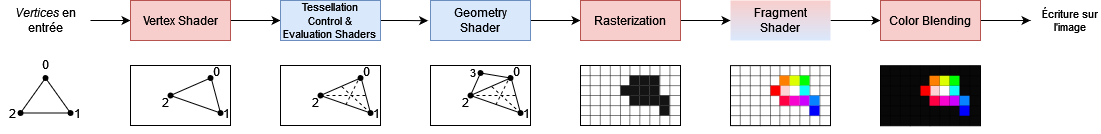
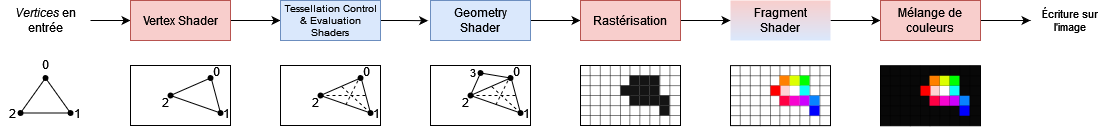
"La" vers "Le" pipeline graphique

diff --git a/partie1/6/1.md b/partie1/6/1.md
@@ -1,9 +1,9 @@
 # Tutoriel pour bien débuter à Vulkan
-## 1.6.1 - La pipeline graphique - Écriture et compilation des shaders
+## 1.6.1 - Le pipeline graphique - Écriture et compilation des shaders
 
-La pipeline graphique a plusieurs étapes où des *shaders* sont utilisés, le *Vertex shader*, le *Tessellation Control shader*, le *Tessellation Evaluation shader*, le *Geometry shader* et le *Fragment shader*.
+Le pipeline graphique a plusieurs étapes où des *shaders* sont utilisés, le *Vertex shader*, le *Tessellation Control shader*, le *Tessellation Evaluation shader*, le *Geometry shader* et le *Fragment shader*.
 
-Le *Tessellation Control shader*, le *Tessellation Evaluation shader* et le *Geometry shader* sont optionnels et il est possible de créer une pipeline graphique sans spécifier de *Fragment shader* mais dans ce cas, seule l'information de la profondeur du fragment sera sortie. Dans la très grande majorité des cas, une pipeline graphique ne comportera que deux *shaders* : le *Vertex shader* et le *Fragment shader*.
+Le *Tessellation Control shader*, le *Tessellation Evaluation shader* et le *Geometry shader* sont optionnels et il est possible de créer un pipeline graphique sans spécifier de *Fragment shader* mais dans ce cas, seule l'information de la profondeur du fragment sera sortie. Dans la très grande majorité des cas, un pipeline graphique ne comportera que deux *shaders* : le *Vertex shader* et le *Fragment shader*.
 
 Contrairement à OpenGL, Vulkan ne supporte pas le GLSL mais supporte une représentation intermédiaire appelée [**SPIR-V**](https://www.khronos.org/spir/). L'avantage est le fait qu'il soit techniquement possible d'écrire ses *shaders* en n'importe quel langage, tant qu'il existe un compilateur vers SPIR-V. Heureusement, VulkanSDK nous fournit de quoi compiler du GLSL vers SPIR-V.
 
@@ -166,7 +166,7 @@ La seule différence avec la fonction ``readBinaryFile`` utilisée pour lire les
 
 Maintenant que celui-ci est en mémoire, nous pouvons commencer la compilation du ``shader``.
 
-Au-dessus de la classe ``HelloTriangle``, dans ``hellotriangle.h``, nous allons ajouter un ``enum`` comportant les différents types de shaders de la pipeline graphique :
+Au-dessus de la classe ``HelloTriangle``, dans ``hellotriangle.h``, nous allons ajouter un ``enum`` comportant les différents types de *shaders* du pipeline graphique :
 
 ```CPP
 enum struct ShaderType {
@@ -399,12 +399,12 @@ Le ``DirStackFileIncluder`` est utilisé dans le cas où on utilise l'extension 
 #include "chemin/vers/le/fichier/a/inclure"
 ```
 
-Nos *shaders* étant maintenant compilés, nous pouvons nous en servir lors de la création de la pipeline graphique.
+Nos *shaders* étant maintenant compilés, nous pouvons nous en servir lors de la création du pipeline graphique.
 
 À la suite de la fonction ``init()`` :
 
 ```CPP
-// Creation de la pipeline graphique
+// Creation du pipeline graphique
 // Compilation des shaders
 std::string vertexShader = readAsciiFile("../shaders/triangle.vert");
 std::vector<uint32_t> vertexShaderSpv = compileShaderFile(vertexShader, ShaderType::Vertex);
@@ -454,7 +454,7 @@ fragmentShaderStageCreateInfo.pName = "main";
 fragmentShaderStageCreateInfo.pSpecializationInfo = nullptr;
 ```
 
-Pour une pipeline graphique, le SPIR-V des *shaders* doit être dans un [**``VkShaderModule``**](https://registry.khronos.org/vulkan/specs/1.3-extensions/man/html/VkShaderModule.html), crée avec une structure [**``VkShaderModuleCreateInfo``**](https://registry.khronos.org/vulkan/specs/1.3-extensions/man/html/VkShaderModuleCreateInfo.html), dans lequel sera mis le SPIR-V du *shader* ainsi que sa taille. ``vertexShaderSpv.size()`` retourne le nombre d'éléments du ``std::vector<uint32_t>`` donc si nous voulons la taille réelle des données, nous devons multiplier par la taille d'un ``uint32_t``. Dans le cas où vous lisez un *shader* pré-compilé avec la fonction ``readBinaryFile``, qui renvoie un ``std::string`` :
+Pour un pipeline graphique, le SPIR-V des *shaders* doit être dans un [**``VkShaderModule``**](https://registry.khronos.org/vulkan/specs/1.3-extensions/man/html/VkShaderModule.html), crée avec une structure [**``VkShaderModuleCreateInfo``**](https://registry.khronos.org/vulkan/specs/1.3-extensions/man/html/VkShaderModuleCreateInfo.html), dans lequel sera mis le SPIR-V du *shader* ainsi que sa taille. ``vertexShaderSpv.size()`` retourne le nombre d'éléments du ``std::vector<uint32_t>`` donc si nous voulons la taille réelle des données, nous devons multiplier par la taille d'un ``uint32_t``. Dans le cas où vous lisez un *shader* pré-compilé avec la fonction ``readBinaryFile``, qui renvoie un ``std::string`` :
 
 ```CPP
 vertexShaderModuleCreateInfo.codeSize = vertexShaderSpv.size();
@@ -465,7 +465,7 @@ vertexShaderModuleCreateInfo.pCode = reinterpret_cast<const uint32_t*>(vertexSha
 
 Ces ``VkShaderModule``s doivent ensuite être créés avec [**``vkCreateShaderModule``**](https://registry.khronos.org/vulkan/specs/1.3-extensions/man/html/vkCreateShaderModule.html) (et seront détruits une fois qu'ils ne seront plus nécessaires).
 
-La pipeline graphique demande un tableau de [**``VkPipelineShaderStageCreateInfo``**](https://registry.khronos.org/vulkan/specs/1.3-extensions/man/html/VkPipelineShaderStageCreateInfo.html)s pour donner les différents stages de *shaders*. Ces structures contiennent le type du *shader*, ici nous avons donc un *Vertex shader*, ``VK_SHADER_STAGE_VERTEX_BIT``, et un *Fragment shader*, ``VK_SHADER_STAGE_FRAGMENT_BIT``, le module de *shader* crée juste avant, et un ``pName`` qui correspond au nom de la fonction principale, le point d'entrée du *shader*, que nous avons appelé ``main`` dans nos *shaders*. Il est tout à fait possible d'avoir un seul ``VkShaderModule``, donc un seul *shader* pour couvrir différents stages, en utilisant des points d'entrée différents. ``pSpecializationInfo`` permet d'utiliser les constantes spécialisées, qui sont des constantes dont la valeur est indiquée lors de la création de la pipeline graphique, et non pas à la compilation du *shader*, mais nous n'en utilisons pas ici.
+Le pipeline graphique demande un tableau de [**``VkPipelineShaderStageCreateInfo``**](https://registry.khronos.org/vulkan/specs/1.3-extensions/man/html/VkPipelineShaderStageCreateInfo.html)s pour donner les différents stages de *shaders*. Ces structures contiennent le type du *shader*, ici nous avons donc un *Vertex shader*, ``VK_SHADER_STAGE_VERTEX_BIT``, et un *Fragment shader*, ``VK_SHADER_STAGE_FRAGMENT_BIT``, le module de *shader* crée juste avant, et un ``pName`` qui correspond au nom de la fonction principale, le point d'entrée du *shader*, que nous avons appelé ``main`` dans nos *shaders*. Il est tout à fait possible d'avoir un seul ``VkShaderModule``, donc un seul *shader* pour couvrir différents stages, en utilisant des points d'entrée différents. ``pSpecializationInfo`` permet d'utiliser les constantes spécialisées, qui sont des constantes dont la valeur est indiquée lors de la création du pipeline graphique, et non pas à la compilation du *shader*, mais nous n'en utilisons pas ici.
 
 Maintenant que nous avons nos deux [**``VkPipelineShaderStageCreateInfo``**](https://registry.khronos.org/vulkan/specs/1.3-extensions/man/html/VkPipelineShaderStageCreateInfo.html)s, nous pouvons les regrouper dans un ``std::array`` :
 

diff --git a/partie1/9.md b/partie1/9.md
@@ -173,7 +173,7 @@ Comme dit plus haut, ``VK_IMAGE_LAYOUT_UNDEFINED`` n'est pas vraiment un layout,
 
 Une transition de layout se fait avec la structure [**``VkImageMemoryBarrier``**](https://registry.khronos.org/vulkan/specs/1.3-extensions/man/html/VkImageMemoryBarrier.html) (ainsi que la version [**``VkImageMemoryBarrier2``**](https://registry.khronos.org/vulkan/specs/1.3-extensions/man/html/VkImageMemoryBarrier2.html) fournie par l'extension ``VK_KHR_synchronization2``).
 
-``srcStageMask`` est un [**``VkPipelineStageFlags2``**](https://registry.khronos.org/vulkan/specs/1.3-extensions/man/html/VkPipelineStageFlagBits2.html) qui donne l'étape de pipeline où l'image a été utilisée en dernier. En dernier, nous avons présenté l'image à l'écran, ce qui n'est pas une étape d'aucune pipeline. Le *driver* a synchronisé implicitement cette opération et nous assure que l'image est disponible. Nous pouvons donc mettre ``VK_PIPELINE_STAGE_2_NONE``.
+``srcStageMask`` est un [**``VkPipelineStageFlags2``**](https://registry.khronos.org/vulkan/specs/1.3-extensions/man/html/VkPipelineStageFlagBits2.html) qui donne l'étape de pipeline où l'image a été utilisée en dernier. En dernier, nous avons présenté l'image à l'écran, ce qui n'est pas une étape d'aucun pipeline. Le *driver* a synchronisé implicitement cette opération et nous assure que l'image est disponible. Nous pouvons donc mettre ``VK_PIPELINE_STAGE_2_NONE``.
 
 ``srcAccessMask`` est un [**``VkAccessFlags2``**](https://registry.khronos.org/vulkan/specs/1.3-extensions/man/html/VkAccessFlagBits2.html) et spécifie ce qui a été fait avec l'image en dernier. Mais puisque nous n'avons pas spécifié de ``srcStageMask``, nous pouvons le laisser à 0.
 
@@ -226,7 +226,7 @@ m_vkCmdBeginRenderingKHR(m_renderingCommandBuffers[m_currentFrameInFlight], &ren
 
 La prochaine commande enregistrée sert à débuter la passe de rendu, où nous allons dessiner notre triangle.
 
-Nous devons spécifier un *scissor*, qui est celui que nous avons défini lors de la création de la pipeline graphique et qui couvre l'entièreté de l'image, puis nous devons donner les images attachées à la passe de rendu.
+Nous devons spécifier un *scissor*, qui est celui que nous avons défini lors de la création du pipeline graphique et qui couvre l'entièreté de l'image, puis nous devons donner les images attachées à la passe de rendu.
 
 Nous n'avons qu'une image de couleur à attacher, l'image de la *swapchain*, nous ne devons donc remplir qu'une seule structure [**``VkRenderingAttachmentInfo``**](https://registry.khronos.org/vulkan/specs/1.3-extensions/man/html/VkRenderingAttachmentInfo.html).
 
@@ -262,13 +262,13 @@ Nous pouvons ensuite appeler [**``vkCmdBeginRenderingKHR``**](https://registry.k
 Tout d'abord, nous allons lier notre pipeline graphique :
 
 ```CPP
-// Lien de la pipeline graphique
+// Lien du pipeline graphique
 vkCmdBindPipeline(m_renderingCommandBuffers[m_currentFrameInFlight], VK_PIPELINE_BIND_POINT_GRAPHICS, m_graphicsPipeline);
 vkCmdSetViewport(m_renderingCommandBuffers[m_currentFrameInFlight], 0, 1, &m_viewport);
 vkCmdSetScissor(m_renderingCommandBuffers[m_currentFrameInFlight], 0, 1, &m_scissor);
 ```
 
-Le lien de la pipeline graphique se fait avec la fonction [**``vkCmdBindPipeline``**](https://registry.khronos.org/vulkan/specs/1.3-extensions/man/html/vkCmdBindPipeline.html). Nous devons préciser de quelle type de pipeline nous parlons, puisque les pipelines de calcul ou encore de *ray tracing* (lancer de rayons) se lient avec la même fonction.
+Le lien du pipeline graphique se fait avec la fonction [**``vkCmdBindPipeline``**](https://registry.khronos.org/vulkan/specs/1.3-extensions/man/html/vkCmdBindPipeline.html). Nous devons préciser de quel type de pipeline nous parlons, puisque les pipelines de calcul ou encore de *ray tracing* (lancer de rayons) se lient avec la même fonction.
 
 Nous devons ensuite spécifier les états de nos états dynamiques, que sont le *viewport* et le *scissor* avec respectivement [**``vkCmdSetViewport``**](https://registry.khronos.org/vulkan/specs/1.3-extensions/man/html/vkCmdSetViewport.html) et [**``vkCmdSetScissor``**](https://registry.khronos.org/vulkan/specs/1.3-extensions/man/html/vkCmdSetScissor.html).
 
@@ -337,7 +337,7 @@ m_vkCmdPipelineBarrier2KHR(m_renderingCommandBuffers[m_currentFrameInFlight], &c
 
 ``srcAccessMask`` spécifie ce qui a été fait avec l'image en dernier. Nous avons écrit dessus en tant qu'image de couleur attachée à une passe de rendu, nous mettons donc ``VK_ACCESS_2_COLOR_ATTACHMENT_WRITE_BIT``.
 
-``dstStageMask`` donne l'étape de pipeline où l'image va être utilisé ensuite. Nous allons la présenter à l'écran, nous mettons donc ``VK_PIPELINE_STAGE_2_NONE``.
+``dstStageMask`` donne l'étape de pipeline où l'image va être utilisé ensuite. Nous allons la présenter à l'écran, ce qui n'est pas une étape de pipeline, nous mettons donc ``VK_PIPELINE_STAGE_2_NONE``.
 
 ``dstAccessMask`` spécifie ce qui va être fait à l'image. Ici, elle va être présentée à l'écran, nous mettons donc 0.
 

diff --git a/partie1/6.md b/partie1/6.md
@@ -1,13 +1,13 @@
 # Tutoriel pour bien débuter à Vulkan
-## 1.6 - La pipeline graphique
+## 1.6 - Le pipeline graphique
 
-La pipeline graphique est l'élément central à tout rendu. Elle est composée de plusieurs étapes qui permettent de passer de modèles 3D et textures à une image.
+Le pipeline graphique est l'élément central à tout rendu. Il est composé de plusieurs étapes qui permettent de passer de modèles 3D et textures à une image.
 
 ![Pipeline graphique](images/pipeline_graphique.png)
 
-Les étapes en rouge seront forcément présentes dans une pipeline graphique tandis que celles en bleu sont optionnelles. Le *fragment shader* est en rouge et en bleu car il n'est pas obligé d'en spécifier un mais il y en aura tout de même un par défaut.
+Les étapes en rouge seront forcément présentes dans un pipeline graphique tandis que celles en bleu sont optionnelles. Le *fragment shader* est en rouge et en bleu car il n'est pas obligé d'en spécifier un mais il y en aura tout de même un par défaut.
 
-- Vertices en entrée : Ils représentent les points des maillages en entrée. Ils peuvent contenir des informations s'ils sont dans un *Vertex Buffer*, telles que leur position, leur normale, leurs coordonnées de textures, leur tangente, etc. La pipeline graphique définit la primitive associée à ces *vertices*, qui sont généralement des triangles (3 *vertices*), mais peuvent aussi être des lignes (2 *vertices*) ou simplement des points (1 *vertex*).
+- Vertices en entrée : Ils représentent les points des maillages en entrée. Ils peuvent contenir des informations s'ils sont dans un *Vertex Buffer*, telles que leur position, leur normale, leurs coordonnées de textures, leur tangente, etc. Le pipeline graphique définit la primitive associée à ces *vertices*, qui sont généralement des triangles (3 *vertices*), mais peuvent aussi être des lignes (2 *vertices*) ou simplement des points (1 *vertex*).
 
 - **Vertex shader** : Prend en entrée des *vertices* (points d'un maillage) dans le repère de leur modèle, qui sont des coordonnées locales, et sort des *vertices* dans le *Clip Space*.
 
@@ -15,15 +15,15 @@ Les étapes en rouge seront forcément présentes dans une pipeline graphique ta
 
 - *Tessellation control shader* et *Tessellation evaluation shader* : Permet de subdiviser le maillage sorti par le *Vertex shader* dans le but de lui donner plus de détails.
 
-- *Geometry shader* : Prend en entrée la primitive de choix de la pipeline graphique (triangle, ligne ou point) et, soit en supprime, soit en ajoute. Les *Geometry shaders* ne sont plus vraiment utilisés aujourd'hui et il est même recommandé de ne plus s'en servir.
+- *Geometry shader* : Prend en entrée la primitive de choix du pipeline graphique (triangle, ligne ou point) et, soit en supprime, soit en ajoute. Les *Geometry shaders* ne sont plus vraiment utilisés aujourd'hui et il est même recommandé de ne plus s'en servir.
 
-- **Rasterization** (Rastérisation) : Prend les primitives retournées par l'étape précédente et les discrétise pour sortir des fragments. Ce processus consiste à prendre une grille qui représente l'image et, pour chaque cellule de cette grille, chercher toutes les primitives qui couvrent le centre de celles-ci afin de créer des fragments contenant des informations sur la primitive.
+- **Rastérisation** (Rasterization) : Prend les primitives retournées par l'étape précédente et les discrétise pour sortir des fragments. Ce processus consiste à prendre une grille qui représente l'image et, pour chaque cellule de cette grille, chercher toutes les primitives qui couvrent le centre de celles-ci afin de créer des fragments contenant des informations sur la primitive.
 
 - **Fragment shader** : Prend en entrée des fragments sortis lors de la rastérisation et sort une couleur et une profondeur.
 
-- **Color blending** (Mélange de couleurs) : Prend en entrée la couleur sortie du *Fragment shader* et l'ajoute à l'image finale selon des opérations définies lors de la création de la pipeline graphique. Le mélange de couleurs permet par exemple d'avoir des objets transparents.
+- **Mélange de couleurs** (*Color Blending*) : Prend en entrée la couleur sortie du *Fragment shader* et l'ajoute à l'image finale selon des opérations définies lors de la création de la pipeline graphique. Le mélange de couleurs permet par exemple d'avoir des objets transparents.
 
-Les pipelines de tout genre (car il en existe d'autres types, comme les pipelines de calcul) sont représentées par des ``VkPipeline``s. Nous allons donc en ajouter une ainsi qu'un ``VkPipelineLayout`` à notre classe ``HelloTriangle`` :
+Les pipelines de tout genre (car il en existe d'autres types, comme les pipelines de calcul) sont représentés par des ``VkPipeline``s. Nous allons donc en ajouter un ainsi qu'un ``VkPipelineLayout`` à notre classe ``HelloTriangle`` :
 
 ```CPP
 VkPipeline m_graphicsPipeline;

diff --git a/partie1/6/6.md b/partie1/6/6.md
@@ -1,17 +1,17 @@
 # Tutoriel pour bien débuter à Vulkan
-## 1.6.6 - La pipeline graphique - Passe de rendu
+## 1.6.6 - Le pipeline graphique - Passe de rendu
 
-Les passes de rendu ne sont pas réellement liées à la pipeline graphique puisque ce sont les séquences dans lesquelles les pipelines graphiques seront utilisées.
+Les passes de rendu ne sont pas réellement liées au pipeline graphique puisque ce sont les séquences dans lesquelles les pipelines graphiques seront utilisés.
 
 ![Passe de rendu](images/passe_de_rendu.png)
 
-Cette image illustre une passe de rendu très simple. Dans celle-ci, nous lions une pipeline graphique et nous rendons tous les objets qui utilisent cette pipeline graphique.
+Cette image illustre une passe de rendu très simple. Dans celle-ci, nous lions un pipeline graphique et nous rendons tous les objets qui utilisent ce pipeline graphique. Il est possible d'utiliser plusieurs pipelines graphiques dans une seule passe de rendu.
 
-La pipeline graphique, dans Vulkan, a besoin de connaître la passe de rendu, qui est un objet [**``VkRenderPass``**](https://registry.khronos.org/vulkan/specs/1.3-extensions/man/html/VkRenderPass.html) à construire préalablement, pour connaître les images qui y sont attachées. Mais comme vous l'avez sûrement remarqué, nous ne l'avons pas fait.
+Le pipeline graphique, dans Vulkan, a besoin de connaître la passe de rendu, qui est un objet [**``VkRenderPass``**](https://registry.khronos.org/vulkan/specs/1.3-extensions/man/html/VkRenderPass.html) à construire préalablement, pour connaître les images qui y sont attachées. Mais comme vous l'avez sûrement remarqué, nous ne l'avons pas fait.
 
 Vulkan est une API multi-plateforme et les ``VkRenderPass`` ont été pensés avec cette spécificité en tête. Le rendu sur mobile est assez différent du rendu sur ordinateur, car ceux-ci utilisent du *Tile-Based Rendering* (TBR) qui permet de séparer l'écran en plusieurs cellules contenant plusieurs pixels, et en accédant qu'à cette zone de mémoire dans les sous-passes, dans le but d'économiser de la batterie. Les ``VkRenderPass`` ont été pensés avec le TBR en tête et leur construction est très contraignante lorsque nous faisons du développement pour ordinateur.
 
-Heureusement, une extension appelée [**``VK_KHR_dynamic_rendering``**](https://registry.khronos.org/vulkan/specs/1.3-extensions/man/html/VK_KHR_dynamic_rendering.html), faisant maintenant partie du cœur de Vulkan depuis Vulkan 1.3, a fait son apparition et permet de ne plus utiliser de ``VkRenderPass`` et leurs sous-passes, et de ne plus en fournir lors de la création de la pipeline graphique.
+Heureusement, une extension appelée [**``VK_KHR_dynamic_rendering``**](https://registry.khronos.org/vulkan/specs/1.3-extensions/man/html/VK_KHR_dynamic_rendering.html), faisant maintenant partie du cœur de Vulkan depuis Vulkan 1.3, a fait son apparition et permet de ne plus utiliser de ``VkRenderPass`` et leurs sous-passes, et de ne plus en fournir lors de la création du pipeline graphique.
 
 Nous devons donc activer cette extension et toutes les extensions dont elle dépend, [**``VK_KHR_create_renderpass2``**](https://registry.khronos.org/vulkan/specs/1.3-extensions/man/html/VK_KHR_create_renderpass2.html) et [**``VK_KHR_depth_stencil_resolve``**](https://registry.khronos.org/vulkan/specs/1.3-extensions/man/html/VK_KHR_depth_stencil_resolve.html), lors de la création du *device* logique pour nous en servir :
 
@@ -61,7 +61,7 @@ pipelineRenderingCreateInfo.depthAttachmentFormat = VK_FORMAT_UNDEFINED;
 pipelineRenderingCreateInfo.stencilAttachmentFormat = VK_FORMAT_UNDEFINED;
 ```
 
-Cette structure permet de remplacer un ``VkRenderPass`` lors de la création d'une pipeline graphique en spécifiant ici les attachements qui seront utilisés.
+Cette structure permet de remplacer un ``VkRenderPass`` lors de la création d'un pipeline graphique en spécifiant ici les attachements qui seront utilisés.
 
 ``viewMask`` est utilisé lorsque le *Multiview* est utilisé, qui permet de rendre plusieurs images différentes efficacement si la seule différence est la vue de la caméra. Le *Multiview* est surtout utilisé en Réalité Virtuelle (VR) où la différence de rendu entre les deux yeux est la vue de la caméra.
 

diff --git a/partie1/6/7.md b/partie1/6/7.md
@@ -1,9 +1,9 @@
 # Tutoriel pour bien débuter à Vulkan
-## 1.6.7 - La pipeline graphique - Création de la pipeline graphique
+## 1.6.7 - Le pipeline graphique - Création du pipeline graphique
 
-Nous arrivons à la création de la pipeline graphique après avoir spécifié tous ses états.
+Nous arrivons à la création du pipeline graphique après avoir spécifié tous ses états.
 
-Avant cela, nous devons créer le layout de la pipeline graphique, qui est notre objet [**``VkPipelineLayout``**](https://registry.khronos.org/vulkan/specs/1.3-extensions/man/html/VkPipelineLayout.html), avec la structure [**``VkPipelineLayoutCreateInfo``**](https://registry.khronos.org/vulkan/specs/1.3-extensions/man/html/VkPipelineLayoutCreateInfo.html).
+Avant cela, nous devons créer le layout du pipeline graphique, qui est notre objet [**``VkPipelineLayout``**](https://registry.khronos.org/vulkan/specs/1.3-extensions/man/html/VkPipelineLayout.html), avec la structure [**``VkPipelineLayoutCreateInfo``**](https://registry.khronos.org/vulkan/specs/1.3-extensions/man/html/VkPipelineLayoutCreateInfo.html).
 
 ```CPP
 // Creation du layout de la pipeline graphique
@@ -18,7 +18,7 @@ pipelineLayoutCreateInfo.pPushConstantRanges = nullptr;
 TUTORIEL_VK_CHECK(vkCreatePipelineLayout(m_device, &pipelineLayoutCreateInfo, nullptr, &m_graphicsPipelineLayout));
 ```
 
-Le layout de la pipeline nous permet de spécifier quels *Descriptor sets* nous allons utiliser lors du rendu avec cette pipeline. Les *Descriptor sets* sont les objets qui servent à utiliser des textures et des buffers dans les *shaders*.
+Le layout du pipeline nous permet de spécifier quels *Descriptor sets* nous allons utiliser lors du rendu avec ce pipeline. Les *Descriptor sets* sont les objets qui servent à utiliser des textures et des buffers dans les *shaders*.
 
 Dans un *shader*, ils sont utilisés comme ceci :
 
@@ -39,7 +39,7 @@ Nous n'en utilisons pas ici, donc ``setLayoutCount`` est égal à 0.
 
 Les *Push Constants* sont des constantes qu'il est possible de définir juste avant chaque rendu. C'est un outil très puissant car il permet de garder les mêmes *shaders*, et donc les mêmes pipelines, tout en modifiant le rendu selon l'objet. Il faut tout de fois faire attention car définir une trop grande quantité de données comme *Push Constants* peut ralentir le rendu, cette taille de données dépendant de la carte graphique.
 
-Le layout de pipeline créé, nous ne devons pas oublier de le supprimer à la fermeture du programme dans la fonction ``destroy()`` :
+Le layout de pipeline créé, nous ne devons pas oublier de le supprimer à la fermeture du programme, dans la fonction ``destroy()`` :
 
 ```CPP
 // Destruction du layout de la pipeline graphique
@@ -81,14 +81,14 @@ Nous n'avons pas spécifié de ``pTessellationState`` puisque nous n'utilisons p
 
 ``basePipelineHandle`` et ``basePipelineIndex`` permettent de dériver d'autres pipelines graphiques mais nous n'allons pas les utiliser.
 
-Une fois notre pipeline graphique créée, nous devons la détruire lors de la fin du programme dans la fonction ``destroy()`` :
+Une fois notre pipeline graphique créé, nous devons le détruire lors de la fin du programme dans la fonction ``destroy()`` :
 
 ```CPP
-// Destruction de la pipeline graphique
+// Destruction du pipeline graphique
 vkDestroyPipeline(m_device, m_graphicsPipeline, nullptr);
 ```
 
-Directement après avoir créé notre pipeline graphique, nous pouvons détruire nos modules de *shaders*, puisqu'ils ne nous serviront plus maintenant que la pipeline graphique a été créée :
+Directement après avoir créé notre pipeline graphique, nous pouvons détruire nos modules de *shaders*, puisqu'ils ne nous serviront plus maintenant que le pipeline graphique a été créé :
 
 ```CPP
 // Destruction des modules de shaders

diff --git a/partie1/6/3.md b/partie1/6/3.md
@@ -1,7 +1,7 @@
 # Tutoriel pour bien débuter à Vulkan
-## 1.6.3 - La pipeline graphique - Viewport et scissor
+## 1.6.3 - Le pipeline graphique - Viewport et scissor
 
-Le *viewport* et le *scissor* déterminent la zone d'action de la pipeline graphique sur l'image.
+Le *viewport* et le *scissor* déterminent la zone d'action du pipeline graphique sur l'image.
 
 ![Viewport et Scissor](images/viewport_scissor.png)
 
@@ -45,10 +45,10 @@ Utiliser une hauteur ``height`` négative permet de retourner verticalement le *
 
 ``offset.x`` et ``offset.y`` placent l'origine du ``scissor``, placée en haut à gauche, ``extent.width`` et ``extent.height`` sont la largeur et la hauteur du ``scissor``.
 
-Nous pouvons ensuite retourner à la suite de ``init()`` lors de la création de la pipeline graphique :
+Nous pouvons ensuite retourner à la suite de ``init()`` lors de la création du pipeline graphique :
 
 ```CPP
-// Viewport et scissor de la pipeline graphique
+// Viewport et scissor du pipeline graphique
 VkPipelineViewportStateCreateInfo viewportStateCreateInfo = {};
 viewportStateCreateInfo.sType = VK_STRUCTURE_TYPE_PIPELINE_VIEWPORT_STATE_CREATE_INFO;
 viewportStateCreateInfo.pNext = nullptr;
@@ -61,11 +61,11 @@ viewportStateCreateInfo.pScissors = nullptr;
 
 Le *viewport* et le *scissor* sont utilisés dans la structure [**``VkPipelineViewportStateCreateInfo``**](https://registry.khronos.org/vulkan/specs/1.3-extensions/man/html/VkPipelineViewportStateCreateInfo.html).
 
-``viewportCount`` et ``scissorCount`` sont le nombre de *viewports* et *scissors* utilisés par la pipeline graphique. Nous n'en utilisons qu'un seul de chaque ici.
+``viewportCount`` et ``scissorCount`` sont le nombre de *viewports* et *scissors* utilisés par le pipeline graphique. Nous n'en utilisons qu'un seul de chaque ici.
 
 Malgré que ``viewportCount`` et ``scissorCount`` ne soient pas égaux à 0, nous ne spécifions pas de *viewport* ni de *scissor* dans ``pViewports`` et ``pScissors`` car nous allons les utiliser comme des états dynamiques.
 
-Les états dynamiques permettent de ne pas spécifier certaines valeurs lors de la création d'une pipeline graphique pour pouvoir les spécifier au moment de faire le rendu. Dans notre cas, étant donné que notre *viewport* et notre *scissor* couvrent la fenêtre entière, si celle-ci est redimensionnée, notre *viewport* et notre *scissor* n'auront plus la bonne taille et la pipeline graphique deviendra invalide et devra être recréée. Pour éviter de devoir recréer toutes nos pipelines graphiques qui agissent sur la fenêtre entière, le *viewport* et le *scissor* sont des états dynamiques de la pipeline graphique.
+Les états dynamiques permettent de ne pas spécifier certaines valeurs lors de la création d'un pipeline graphique pour pouvoir les spécifier au moment de faire le rendu. Dans notre cas, étant donné que notre *viewport* et notre *scissor* couvrent la fenêtre entière, si celle-ci est redimensionnée, notre *viewport* et notre *scissor* n'auront plus la bonne taille et le pipeline graphique deviendra invalide et devra être recréé. Pour éviter de devoir recréer tous nos pipelines graphiques qui agissent sur la fenêtre entière, le *viewport* et le *scissor* sont des états dynamiques du pipeline graphique.
 
 ```CPP
 // Etats dynamiques

diff --git a/partie1/6/5.md b/partie1/6/5.md
@@ -1,7 +1,7 @@
 # Tutoriel pour bien débuter à Vulkan
-## 1.6.5 - La pipeline graphique - Mélange de couleurs
+## 1.6.5 - Le pipeline graphique - Mélange de couleurs
 
-Lorsque plusieurs objets sont rendus sur la même image, la pipeline graphique a besoin de savoir comment les nouveaux fragments, et surtout leurs couleurs, doivent s'ajouter à la couleur déjà présente sur l'image. C'est le principe de la structure [**``VkPipelineColorBlendStateCreateInfo``**](https://registry.khronos.org/vulkan/specs/1.3-extensions/man/html/VkPipelineColorBlendStateCreateInfo.html).
+Lorsque plusieurs objets sont rendus sur la même image, le pipeline graphique a besoin de savoir comment les nouveaux fragments, et surtout leurs couleurs, doivent s'ajouter à la couleur déjà présente sur l'image. C'est le principe de la structure [**``VkPipelineColorBlendStateCreateInfo``**](https://registry.khronos.org/vulkan/specs/1.3-extensions/man/html/VkPipelineColorBlendStateCreateInfo.html).
 
 ```CPP
 // Melange de couleurs
@@ -68,7 +68,7 @@ Dans le cas où nous avons des objets transparents, la méthode la plus naïve p
 
 ![Transparence dépendante de l'ordre](images/transparence_dependante_ordre.png)
 
-Avec cette méthode, les objets transparents doivent être rendus avec une autre pipeline graphique avec un mélange de couleurs différent, appelé *Alpha Blending* :
+Avec cette méthode, les objets transparents doivent être rendus avec un autre pipeline graphique, avec un mélange de couleurs différent, appelé *Alpha Blending* :
 
 ```
 colorBlendAttachmentState.blendEnable = VK_TRUE;

diff --git a/index.md b/index.md
@@ -12,7 +12,7 @@
 - [1.3 - La surface de la fenêtre](partie1/3.md)
 - [1.4 - Choix d'un GPU et device logique](partie1/4.md)
 - [1.5 - La swapchain](partie1/5.md)
-- [1.6 - La pipeline graphique](partie1/6.md)
+- [1.6 - Le pipeline graphique](partie1/6.md)
 	- [1.6.1 - Écriture et compilation des shaders](partie1/6/1.md)
 	- [1.6.2 - Vertices en entrée](partie1/6/2.md)
 	- [1.6.3 - Viewport et scissor](partie1/6/3.md)

diff --git a/partie1/6/4.md b/partie1/6/4.md
@@ -1,5 +1,5 @@
 # Tutoriel pour bien débuter à Vulkan
-## 1.6.4 - La pipeline graphique - La rastérisation
+## 1.6.4 - Le pipeline graphique - La rastérisation
 
 La rastérisation est le processus de discrétisation des primitives afin de créer des fragments qui seront traités par le *Fragment shader* pour devenir des pixels sur l'image.
 

diff --git a/partie1/6/2.md b/partie1/6/2.md
@@ -1,5 +1,5 @@
 # Tutoriel pour bien débuter à Vulkan
-## 1.6.2 - La pipeline graphique - Vertices en entrée
+## 1.6.2 - Le pipeline graphique - Vertices en entrée
 
 Nous allons maintenant nous occuper des *vertices* en entrée et des primitives.
 
